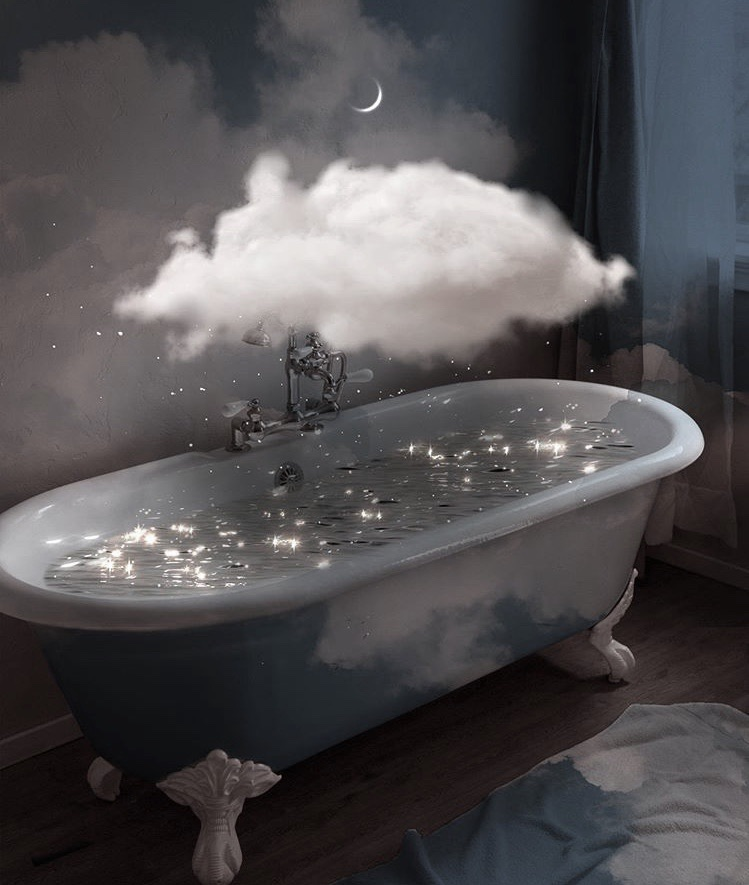
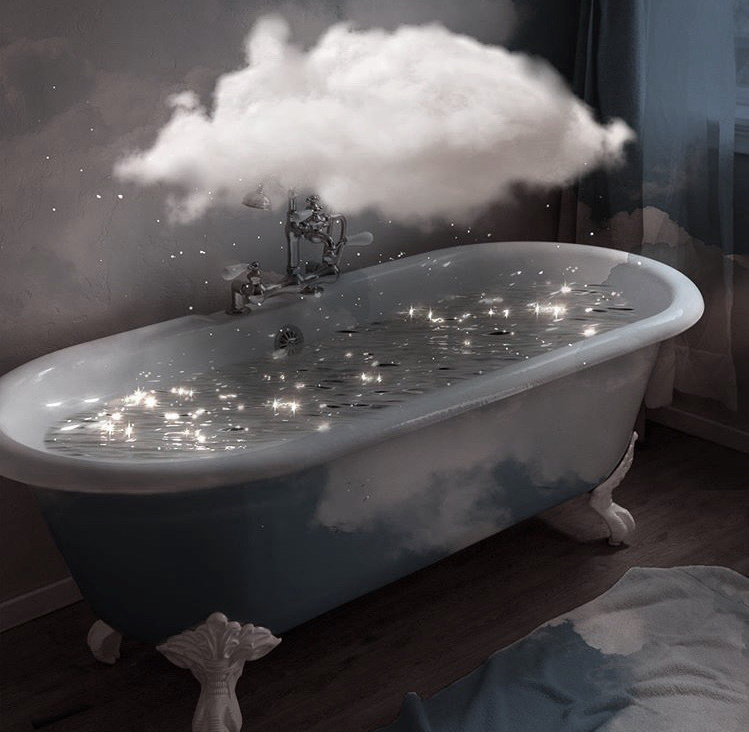
Bennys Badekar

diff --git a/static/css/main.css b/static/css/main.css
@@ -219,7 +219,7 @@ a:hover .new {
   margin: 0;
   background-image: url("");
   background-size: cover;
-  height: 775px;
+  height: 570px;
   box-shadow: 0 0 10px black;
 }
 

diff --git a/badekar.md b/badekar.md
@@ -8,9 +8,9 @@ title: Badekar/Læske
 
 <div id="poster-image-long" style="background-image: url('/static/img/magicTub.jpg');">
 </div>
--->
 
-<p style="font-weight: bold; font-size: 25px;">Badekar bestilling kommer snart</p> 
+
+<p style="font-weight: bold; font-size: 25px; text-align: center;">Badekar bestilling kommer snart</p> 
 
 <!--
 <a style="text-align: center; padding: 3px" href="https://forms.gle/bbZ8T1Co8L4XXS5cA">

diff --git a/en/badekar.md b/en/badekar.md
@@ -8,9 +8,9 @@ title: Bathtub/Beverages
 
 <div id="poster-image-long" style="background-image: url('/static/img/magicTub.jpg');">
 </div>
--->
 
-<p style="font-weight: bold; font-size: 25px;">Bathtub ordering will open soon</p>
+
+<p style="font-weight: bold; font-size: 25px; text-align: center;">Bathtub ordering will open soon</p>
 
 <!--
 <a style="text-align: center" href="https://forms.gle/bbZ8T1Co8L4XXS5cA">
